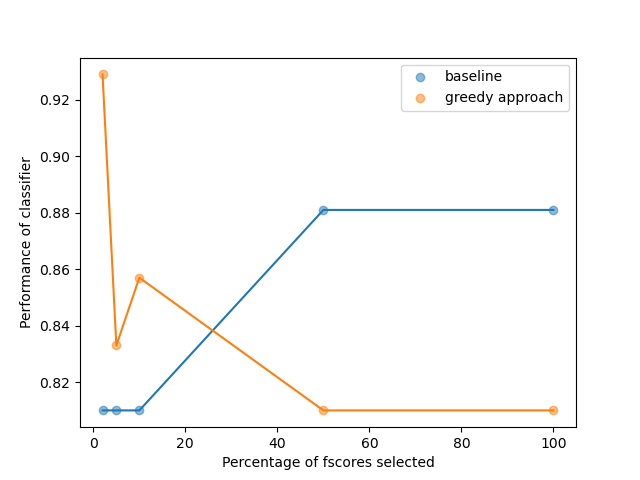
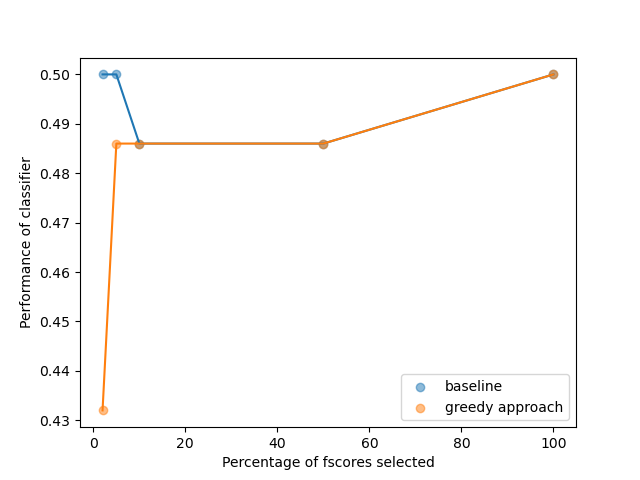
Results for random forest balanced accuracy metric

diff --git a/graphtools/fc_data/load_data.py b/graphtools/fc_data/load_data.py
@@ -9,7 +9,7 @@ from sklearn.ensemble import RandomForestClassifier
 from sklearn.model_selection import train_test_split, StratifiedKFold, KFold, GridSearchCV
 from funcgraph import BrainGraph
 from paramopt import graph_options
-from sklearn.svm import SVC
+from sklearn.metrics import balanced_accuracy_score
 import logging
 import os
 import itertools as it
@@ -124,9 +124,9 @@ def fscore_hist(combined_edges):
     plt.show()
 
 def fit_classifier(X_train, X_test, y_train, y_test, n_fold, index):
-    cv_inner = KFold(n_splits=5, shuffle=True, random_state=1)
+    cv_inner = KFold(n_splits=3, shuffle=True, random_state=1)
     # define the model
-    clf = RandomForestClassifier(random_state=10)
+    clf = RandomForestClassifier(random_state=10, n_jobs=-1)
     # define search space
 
     space = {"max_features": [0.9, 1],
@@ -135,13 +135,16 @@ def fit_classifier(X_train, X_test, y_train, y_test, n_fold, index):
                 "random_state": [5, 6],
                 "criterion": ['gini', 'entropy']}
     # define search
-    search = GridSearchCV(clf, space, scoring='accuracy', cv=cv_inner, refit=True)
+    search = GridSearchCV(clf, space, scoring='balanced_accuracy', cv=cv_inner, refit=True)
     # execute search
     search.fit(X_train.loc[:, index], y_train)
     #print(X_train.shape, y_train.shape, X_test.shape, y_test.shape)
     best_model = search.best_estimator_
 
-    test_score = best_model.score(X_test.loc[:, index], y_test)
+    #test_score = best_model.score(X_test.loc[:, index], y_test)
+    y_pred = best_model.predict(X_test.loc[:, index])
+    test_score = balanced_accuracy_score(y_test, y_pred)
+
     params = search.best_params_
     logger.info(f'The score on the fold {n_fold} {round(test_score, 3)}')
     #print(f'The score on the fold {n_fold}:', round(test_score, 3))
@@ -238,7 +241,8 @@ def evaluate(index, X_train, X_test, y_train, y_test, clf):
     X_test = scalar.transform(X_test)
     clf.fit(X_train, y_train)
     logger.info(f'Final score on independent test set  {round(clf.score(X_test, y_test), 3)}')
-    return round(clf.score(X_test, y_test), 3)
+    y_pred = clf.predict(X_test)
+    return round(balanced_accuracy_score(y_test, y_pred), 3)
 
 
 def main():
@@ -311,9 +315,9 @@ def main():
             logger.info(f'The average score on k-fold baseline {round(avg_score_base, 3)}'
                         f' and greedy graph {round(avg_score_greedy, 3)}')
             # now fit the best estimator from the above
-            clf_base = RandomForestClassifier(**base_params)
+            clf_base = RandomForestClassifier(**base_params, n_jobs=-1)
             score_by_percentage[per] = evaluate(base_idxs, X_train, X_test, y_train, y_test, clf_base)
-            clf_greedy = RandomForestClassifier(**greedy_params)
+            clf_greedy = RandomForestClassifier(**greedy_params, n_jobs=-1)
             score_by_nodes[max_num_nodes] = evaluate(greedy_idxs, X_train, X_test, y_train, y_test, clf_greedy)
         plot_comparison()
 
